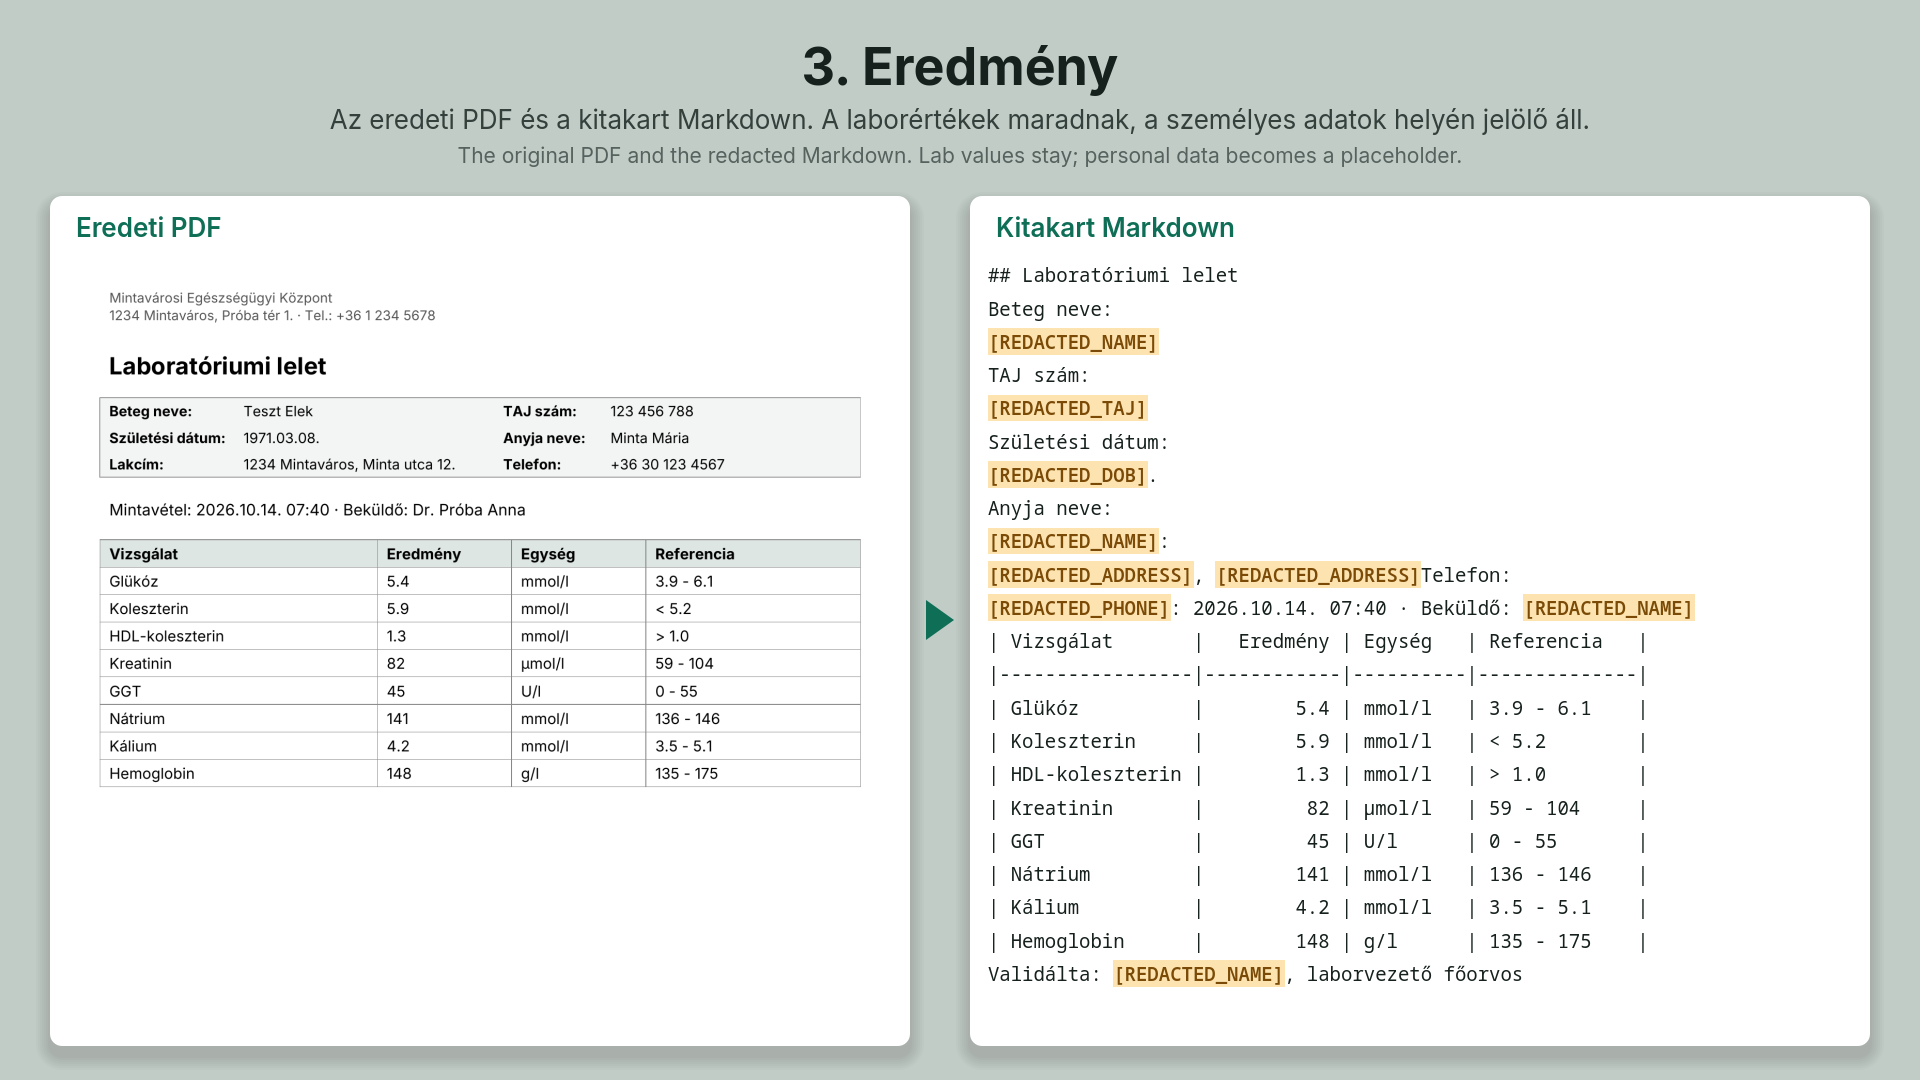
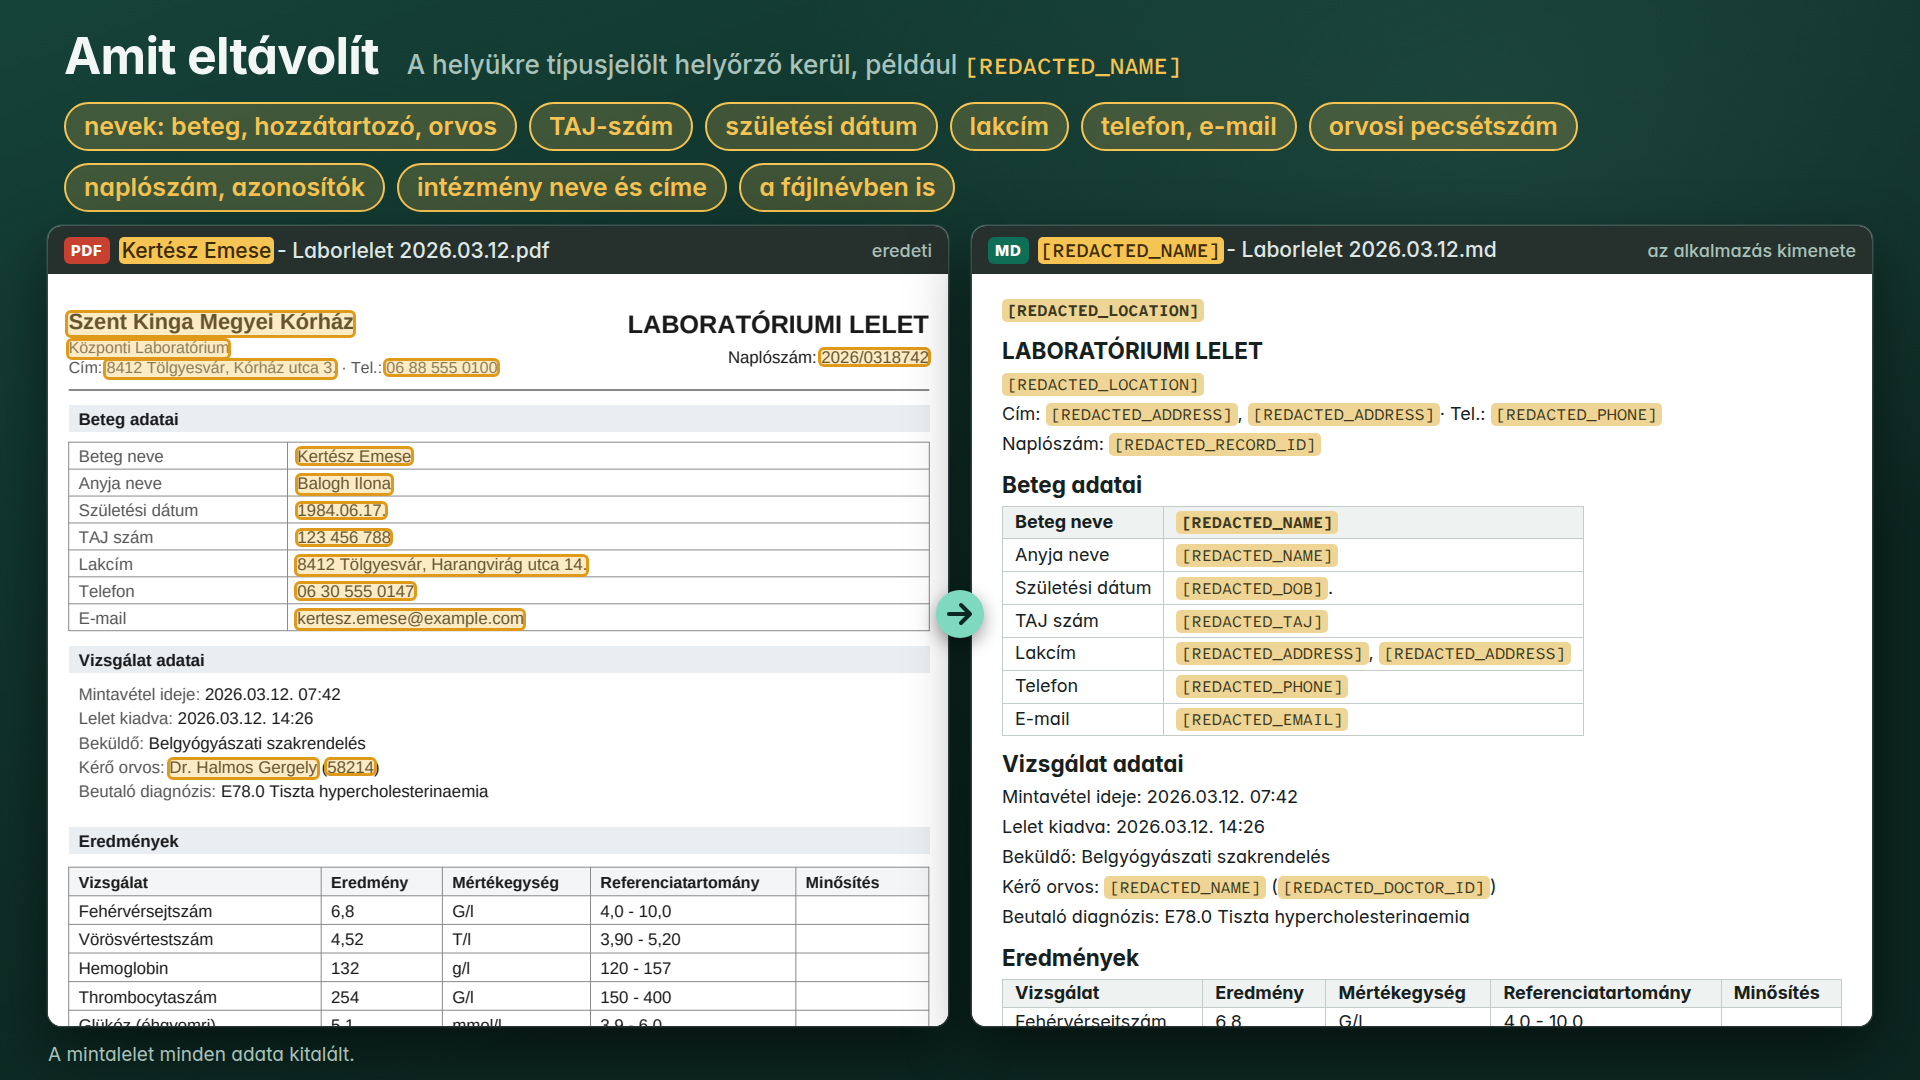
README: demo video, what it removes and keeps, download guide
The video preview and both screenshots come from invented sample reports.

diff --git a/README.md b/README.md
@@ -1,14 +1,10 @@
 # Orvosi dokumentum anonimizáló
 
-Asztali alkalmazás, ami magyar orvosi PDF-leleteket alakít kitakart markdown szöveggé. A személyes adatokat (nevek, TAJ-szám, lakcím, telefonszám, e-mail, születési dátum) eltávolítja, a vizsgálati dátumok és az orvosi tartalom marad.
+Asztali alkalmazás, ami magyar orvosi PDF-leletekből Markdown szöveget készít, a személyes adatok nélkül. Az így kapott szöveget odaadhatod egy nyelvi modellnek (LLM), hogy összefoglalja vagy elmagyarázza a leleteidet.
 
-![Az alkalmazás három feldolgozott lelettel](screenshots/app.png)
+[![Bemutató videó: kattints a lejátszáshoz](screenshots/video.jpg)](https://github.com/Tokra110/orvosi-dokumentum-anonimizalo/releases/download/v1.0.0/medical-redactor-demo.mp4)
 
-![Az eredeti PDF és a kitakart Markdown egymás mellett](screenshots/result.png)
-
-A képeken és a [bemutató videóban](https://github.com/Tokra110/orvosi-dokumentum-anonimizalo/releases/download/v1.0.0/medical-redactor-demo.mp4) minden név, szám és cím kitalált.
-
-Letöltés Windowsra és Linuxra: [Releases](https://github.com/Tokra110/orvosi-dokumentum-anonimizalo/releases/latest). A modelleket (kb. 655 MB) az első indításkor tölti le.
+*Bemutató videó, kb. 40 másodperc, hanggal. A videóban és a képeken minden név, szám és cím kitalált.*
 
 ## Miért készült?
 
@@ -16,12 +12,42 @@ Abból jött az egész, hogy a leleteimet be akartam adni egy nyelvi modellnek: 
 
 Minden a saját gépeden fut, CPU-n (ONNX Runtime, se PyTorch, se felhő). A dokumentumaid nem hagyják el a géped.
 
+## Mit vesz ki, és mit hagy meg?
+
+| Kiveszi | Megtartja |
+|---|---|
+| Nevek: beteg, hozzátartozó, orvos | Vizsgálati dátumok |
+| TAJ-szám, születési dátum | Laborértékek, mértékegységek, referenciatartományok |
+| Lakcím, telefonszám, e-mail | A táblázatok szerkezete |
+| Orvosi pecsétszám, naplószám, más azonosítók | Leletek, vélemények, diagnózisok (BNO-kóddal) |
+| Intézmények neve és címe | |
+| Ugyanezeket a fájlnévből is | |
+
+A kivett adat helyére típusjelölt helyőrző kerül, például `[REDACTED_NAME]` vagy `[REDACTED_TAJ]`, így látszik, mi volt ott.
+
+![Egy kitalált laborlelet és a belőle készült Markdown egymás mellett. Ami kikerül, sárga keretet kap.](screenshots/result.png)
+
+## Az alkalmazás
+
+PDF-eket vagy egész mappát húzhatsz be, az Indítás gomb pedig sorban feldolgozza őket. A táblázat fájlonként mutatja, hány nevet, TAJ-számot, dátumot és címet takart ki. Ha egy nevet a program nem talált meg, a Kézi anonimizálás résznél minden kész fájlban kicserélheted.
+
+![Az alkalmazás ablaka három feldolgozott kitalált lelettel](screenshots/app.png)
+
+## Letöltés
+
+A [legújabb kiadásnál](https://github.com/Tokra110/orvosi-dokumentum-anonimizalo/releases/latest):
+
+- Windows: `*-setup.exe` (telepítő) vagy `*-windows-x86_64.zip` (telepítés nélkül)
+- Linux: `*.rpm` (Fedora és társai) vagy `*-linux-x86_64.tar.gz`
+
+Az első indításkor a program letölti a modelleket, ez kb. 655 MB.
+
 ## Hogyan működik?
 
-1. A PDF-et a [Docling](https://github.com/docling-project/docling) alakítja markdownná. A laboreredmény-táblázatok szerkezete megmarad.
+1. A PDF-et a [Docling](https://github.com/docling-project/docling) alakítja Markdownná. A laboreredmény-táblázatok szerkezete megmarad.
 2. Egy magyar HuBERT NER-modell megkeresi a neveket, helyeket, intézményeket.
-3. Magyar-specifikus szabályok szűrik a TAJ-számot (ellenőrzőösszeggel), a telefonszámokat, címeket, születési dátumokat és a mezőcímkék melletti neveket.
-4. Minden találat típusjelölt helyettesítőt kap (`[REDACTED_NAME]`, `[REDACTED_TAJ]`, ...), a fájlnevekben is.
+3. Magyar szabályok keresik a TAJ-számot (ellenőrzőösszeggel), a telefonszámokat, címeket, születési dátumokat és a mezőcímkék melletti neveket.
+4. Minden találat a helyőrzőjére cserélődik, a fájlnévben is.
 
 > Csak EESZT-ből letöltött dokumentumokkal teszteltem: labor, ambuláns lap, képalkotó leletek. Más forrásból jövő PDF (magánklinika saját sablonja, papírról szkennelt lelet) működhet, de nincs validálva. Ilyenkor különösen alaposan nézd át az eredményt.
 
@@ -31,7 +57,9 @@ Minden a saját gépeden fut, CPU-n (ONNX Runtime, se PyTorch, se felhő). A dok
 
 # Technical documentation (English)
 
-Desktop app (PySide6) that converts Hungarian medical PDFs to redacted markdown. PII detection runs in two layers: a Hungarian HuBERT NER model (ONNX) plus Hungarian-specific regexes. Inference is local, CPU-only, torch-free.
+Desktop app (PySide6) that turns Hungarian medical PDFs into Markdown with the personal data removed, so the text can go to an LLM for a summary or an explanation. PII detection runs in two layers: a Hungarian HuBERT NER model (ONNX) plus Hungarian-specific regexes. Inference is local, CPU-only, torch-free. The [demo video](https://github.com/Tokra110/orvosi-dokumentum-anonimizalo/releases/download/v1.0.0/medical-redactor-demo.mp4) shows a run on invented documents.
+
+It removes names (patients, relatives, doctors), TAJ numbers, birth dates, addresses, phone numbers, e-mail addresses, doctor stamp numbers, record IDs and institution names, also from file names. It keeps examination dates, lab values with units and reference ranges, table structure, findings and diagnoses.
 
 The app works and has tests, but treat it as a work in progress. The app downloads its HuBERT and TableFormer ONNX models from the public `models-v1` GitHub Release on first use. Validation so far covers EESZT documents only (see the Hungarian note above).
 
